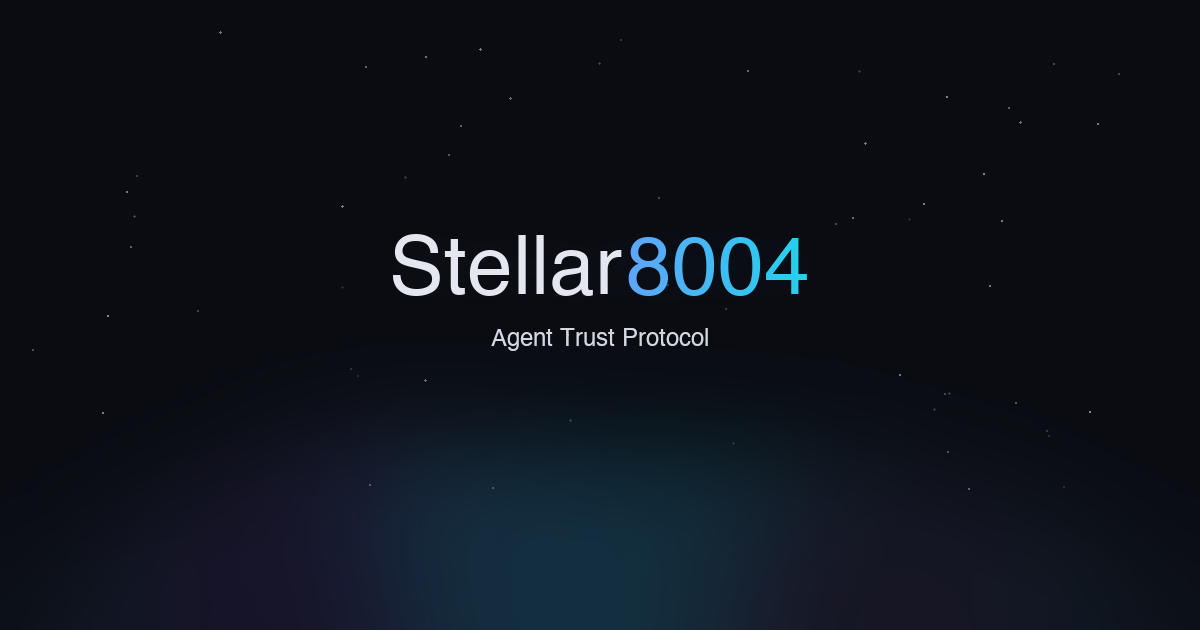
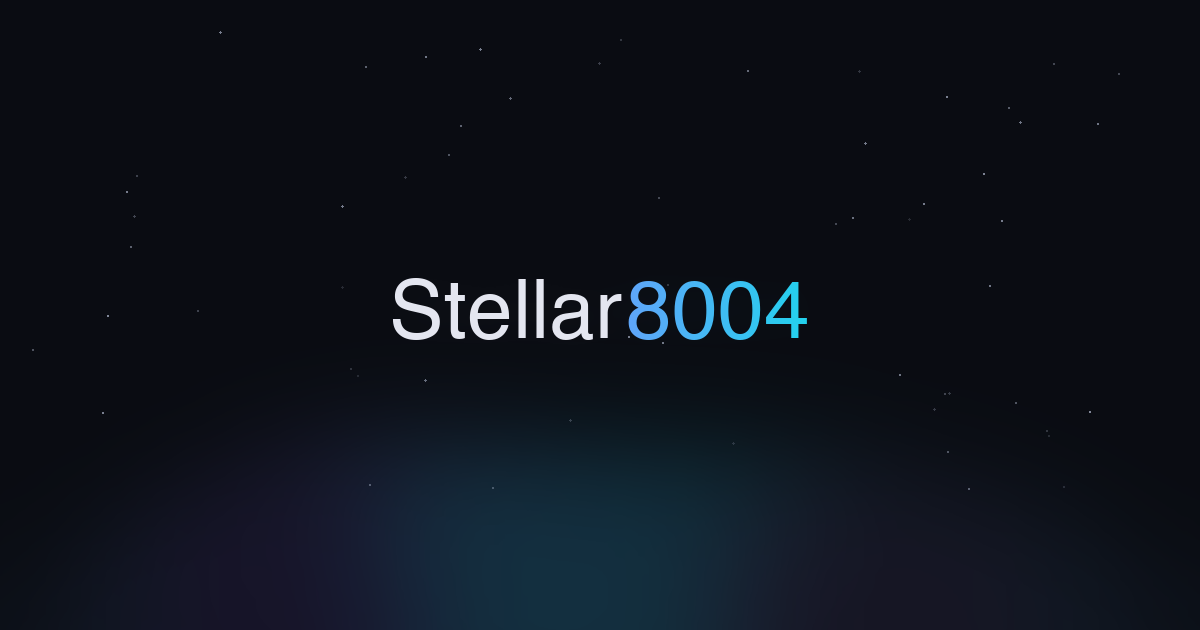
fix(web): update images and minor ui tweaks

Changed region(s): [[0.3083, 0.3619, 0.6783, 0.573]]

diff --git a/webapp/apps/web/src/routes/layout.css b/webapp/apps/web/src/routes/layout.css
@@ -104,7 +104,7 @@
 
 /* Light mode needs higher opacity for the same frosted-glass perception */
 [data-theme="light"] .navbar-inner {
-  background: color-mix(in oklch, var(--color-surface) 60%, transparent);
+  background: color-mix(in oklch, var(--color-surface) 45%, transparent);
 }
 [data-theme="light"] .btm-nav {
   background: color-mix(in oklch, var(--color-surface) 70%, transparent);
@@ -276,10 +276,10 @@ textarea:focus {
   padding: 8px 14px;
   border-radius: 14px;
   border: 0.5px solid color-mix(in oklch, var(--color-border) 60%, transparent);
-  background: color-mix(in oklch, var(--color-surface) 38%, transparent);
-  backdrop-filter: blur(20px) saturate(1.6);
-  -webkit-backdrop-filter: blur(20px) saturate(1.6);
-  box-shadow: 0 2px 16px color-mix(in oklch, var(--color-surface) 20%, transparent);
+  background: color-mix(in oklch, var(--color-surface) 22%, transparent);
+  backdrop-filter: blur(12px) saturate(1.3);
+  -webkit-backdrop-filter: blur(12px) saturate(1.3);
+  box-shadow: 0 1px 8px color-mix(in oklch, var(--color-surface) 12%, transparent);
 }
 
 .nav-link {

diff --git a/webapp/apps/web/src/routes/developers/+page.svelte b/webapp/apps/web/src/routes/developers/+page.svelte
@@ -5,7 +5,7 @@
 		{
 			name: '8004s',
 			slash: '/8004s',
-			desc: 'Full agent onboarding playbook for ERC-8004 on Stellar. Covers metadata preparation, on-chain registration (register, register_with_uri, register_full), indexer discovery, reputation system (give/read/revoke feedback, get_summary with running aggregates), validation workflow, trust verification, x402 integration, and storage vs event architecture.',
+			desc: 'Full agent onboarding playbook for ERC-8004 on Stellar. Covers metadata preparation, on-chain registration (register, register_with_uri, register_full), indexer discovery, reputation system (give/read/revoke feedback, get_summary with running aggregates), validation workflow, trust verification, x402 and MPP payment integration, and storage vs event architecture.',
 			install: 'npx skills add trionlabs/stellar-8004 --skill 8004s',
 			repo: 'https://github.com/trionlabs/stellar-8004'
 		},
@@ -106,7 +106,8 @@ const metadata = buildMetadataJson({
     }
   ],
   supportedTrust: ['reputation'],
-  x402Enabled: true
+  x402Enabled: true,
+  mppEnabled: false
 });
 
 console.log('Metadata bytes:', getMetadataSize(metadata));
@@ -192,7 +193,8 @@ const metadata = buildMetadataJson({
     }
   ],
   supportedTrust: ['reputation'],
-  x402Enabled: false
+  x402Enabled: false,
+  mppEnabled: false
 });
 
 console.log('Metadata bytes:', getMetadataSize(metadata));